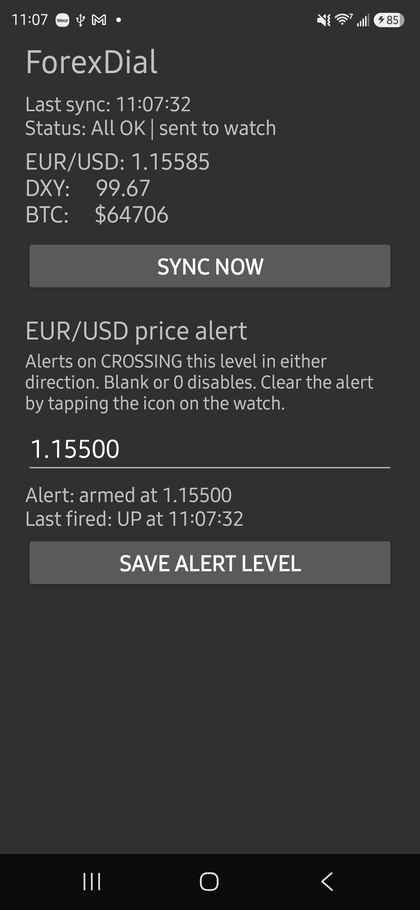
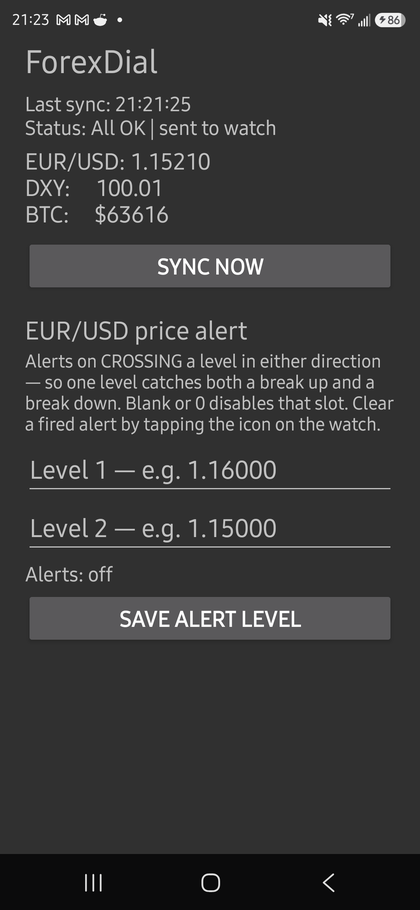
Docs: two alert levels, and refresh the phone screenshot
README still described a single alert level. Updated the alert section for
two, spelled out that they are not an upper/lower pair (each is watched
both ways, so two levels give four triggers), and documented the
nearest-level rule when one step gaps through both.

Replaced the phone screenshot - it showed the old single-field UI, which
would have been the first thing anyone following the guide noticed was
wrong.

Handoff gets a 2026-08-12 section covering the three attempts at the alert
vibration and why the first two failed, the foreground-service background-
start restriction that nearly shipped broken, the list-shaped alert storage,
the per-minute vs per-day Twelve Data distinction, and the wireless-ADB
re-pairing quirk that cost time repeatedly today.

diff --git a/HANDOFF_V1_07_28_2026.md b/HANDOFF_V1_07_28_2026.md
@@ -472,6 +472,62 @@ Long session. Everything below is verified on-device unless stated otherwise.
 
 ---
 
+## UPDATE 2026-08-12: buzz-until-dismissed, two alert levels, PUBLISHED
+
+**Published:** github.com/AMBARCAPOOR/ForexDial — MIT, source-only, no APKs.
+Verified a clean clone builds all three APKs with NO key baked in.
+
+**Alert vibration took three attempts. Read this before touching it:**
+1. Buzz from the DataItem PUSH path — unreliable here, so it never ran at
+   all. That was the original "doesn't vibrate" bug.
+2. Repeat from the complication POLLING path — the alert complication's 60s
+   period is NOT a heartbeat. Measured: 7 calls in 3 minutes, clustered and
+   irregular. The system only polls complications while the face is being
+   rendered, so screen-off means silence.
+3. AlarmManager — rejected on evidence, not taste: SCHEDULE_EXACT_ALARM is
+   denied by default at API 36 / targetSdk 35, degrading to an inexact alarm
+   Doze throttles to ~9 minutes.
+4. **Foreground service** — owns its timer, Doze-exempt while running. Now
+   buzzes every 5s for 5 minutes (60 ticks) or until dismissed.
+
+**CRITICAL — this nearly shipped broken.** Starting a foreground service
+from the background is DENIED without a battery-optimisation exemption
+(`ForegroundServiceStartNotAllowedException`, `code:DENIED`). It worked here
+only because this watch had been Doze-allowlisted during earlier debugging.
+Caught by REMOVING the allowlist entry and retesting. Two fixes:
+`DataLayerHelper` now buzzes directly BEFORE attempting the service, so an
+unexempted install degrades to a single buzz rather than silence; and the
+README documents the exemption as a requirement.
+
+**Two alert levels**, stored as a comma-separated LIST (`alert_levels`),
+deliberately not named upper/lower fields — going to N is then a UI change
+rather than a rewrite of storage, payload and detection. Each level is
+watched in BOTH directions. When one 3-minute step gaps through several,
+the level NEAREST the current price is reported (most recent break, still
+the relevant reference). The first cut used the opposite rule — a JVM test
+caught it, because the expectation had been written the other way round
+minutes after writing the rule.
+
+**Intermittent "EUR/USD failed, DXY failed"** during heavy manual syncing is
+Twelve Data's PER-MINUTE rate limit, NOT the per-symbol daily credit
+exhaustion behind the August outage. Clears after ~60s. Diagnosing it
+required prefs archaeology because the API clients swallow exceptions
+without logging — candidate cleanup.
+
+**Wireless ADB:** the watch's pairing drops whenever it leaves the charger.
+The PORT usually stays the same; it's the pairing that's lost, so `adb pair`
+with a fresh 6-digit code is the fix, not hunting a new port. `adb mdns
+services` reveals the current port without reading it off the watch.
+
+### Still open after 2026-08-12
+- Rotate the Finnhub key (low urgency — history scrubbed, never pushed).
+- Ambient flash behaviour unverified (no AOD on this watch).
+- EUR/USD pair still hardcoded; v2 multi-pair not started.
+- N alert levels, if two proves too few — the storage already supports it.
+- API clients swallow exceptions silently; a real outage would be opaque.
+
+---
+
 ## 7. DESIGN SPEC
 
 The Terminal layout is locked and lives in memory (`forexdial-design-locked.md`):

diff --git a/README.md b/README.md
@@ -2,7 +2,7 @@
 
 A terminal-style forex watch face for **Wear OS 3+** (built and tested on a Samsung Galaxy Watch 7, Wear OS 6), with a phone companion app that fetches the data.
 
-Shows EUR/USD with pip-level precision, the DXY dollar index, BTC, the EUR–US 2-year yield spread, live market-session status for XETRA / LSE / NYSE, and a price alert that buzzes your wrist and flashes on screen when EUR/USD crosses a level you set.
+Shows EUR/USD with pip-level precision, the DXY dollar index, BTC, the EUR–US 2-year yield spread, live market-session status for XETRA / LSE / NYSE, and price alerts that buzz your wrist and flash on screen when EUR/USD crosses a level you set.
 
 <p align="center">
   <img src="docs/screenshots/watchface.png" width="340" alt="ForexDial watch face">
@@ -116,7 +116,7 @@ Long-press the watch face → swipe to **ForexDial** → tap to select.
 
 **Data refresh.** The phone polls prices every 3 minutes and pushes to the watch. Tapping anywhere on the face requests an immediate sync rather than just re-reading the local cache.
 
-**Price alerts.** In the phone app, enter a level under *EUR/USD price alert* and hit save. The status line shows whether an alert is armed and when it last fired:
+**Price alerts.** In the phone app, enter up to **two levels** under *EUR/USD price alert* and hit save. Leave a slot blank to use just one, or clear both to disable. The status line shows what's armed and which level last fired:
 
 <p align="center">
   <img src="docs/screenshots/phone-app.png" width="260" alt="Phone app with a price alert armed">
@@ -138,7 +138,9 @@ It keeps buzzing every 5 seconds until you acknowledge it, giving up after 5 min
 >
 > Or on the watch: **Settings → Apps → ForexDial → Battery → Unrestricted.**
 
-It fires on the *crossing*, not on merely being past the level — so it alerts once per crossing rather than nagging every sync for as long as price stays beyond your threshold. Clearing it is permanent for that crossing: dismiss it and it stays gone until price crosses again. Leave the field blank or `0` to disable.
+It fires on the *crossing*, not on merely being past the level — so it alerts once per crossing rather than nagging every sync for as long as price stays beyond your threshold. Clearing it is permanent for that crossing: dismiss it and it stays gone until price crosses again.
+
+The levels aren't an upper/lower pair — each one is watched in **both** directions, so two levels give you four possible triggers. If a single 3-minute step gaps through both (news, thin liquidity), the watch reports the level **nearest** the current price: the most recent break, and the reference that still matters where price actually is.
 
 **Reading the face:**
 
